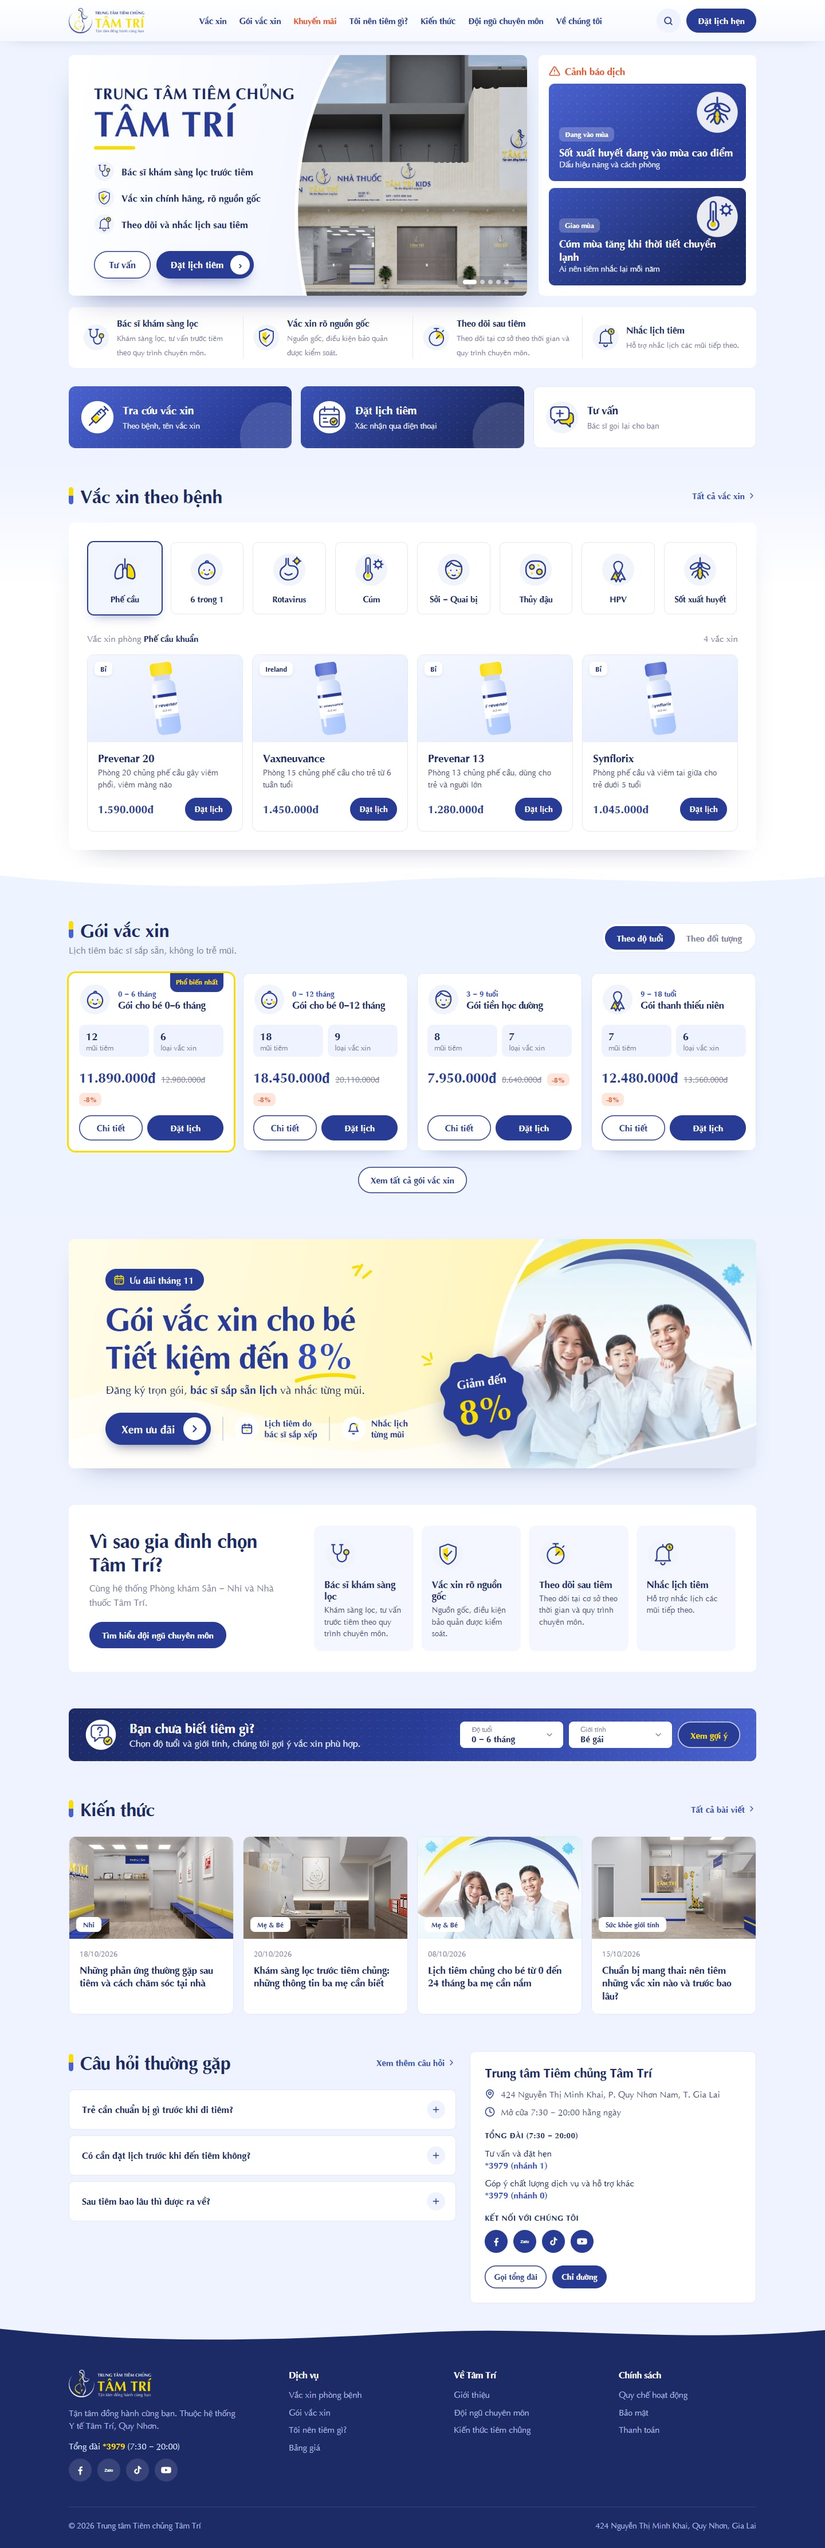
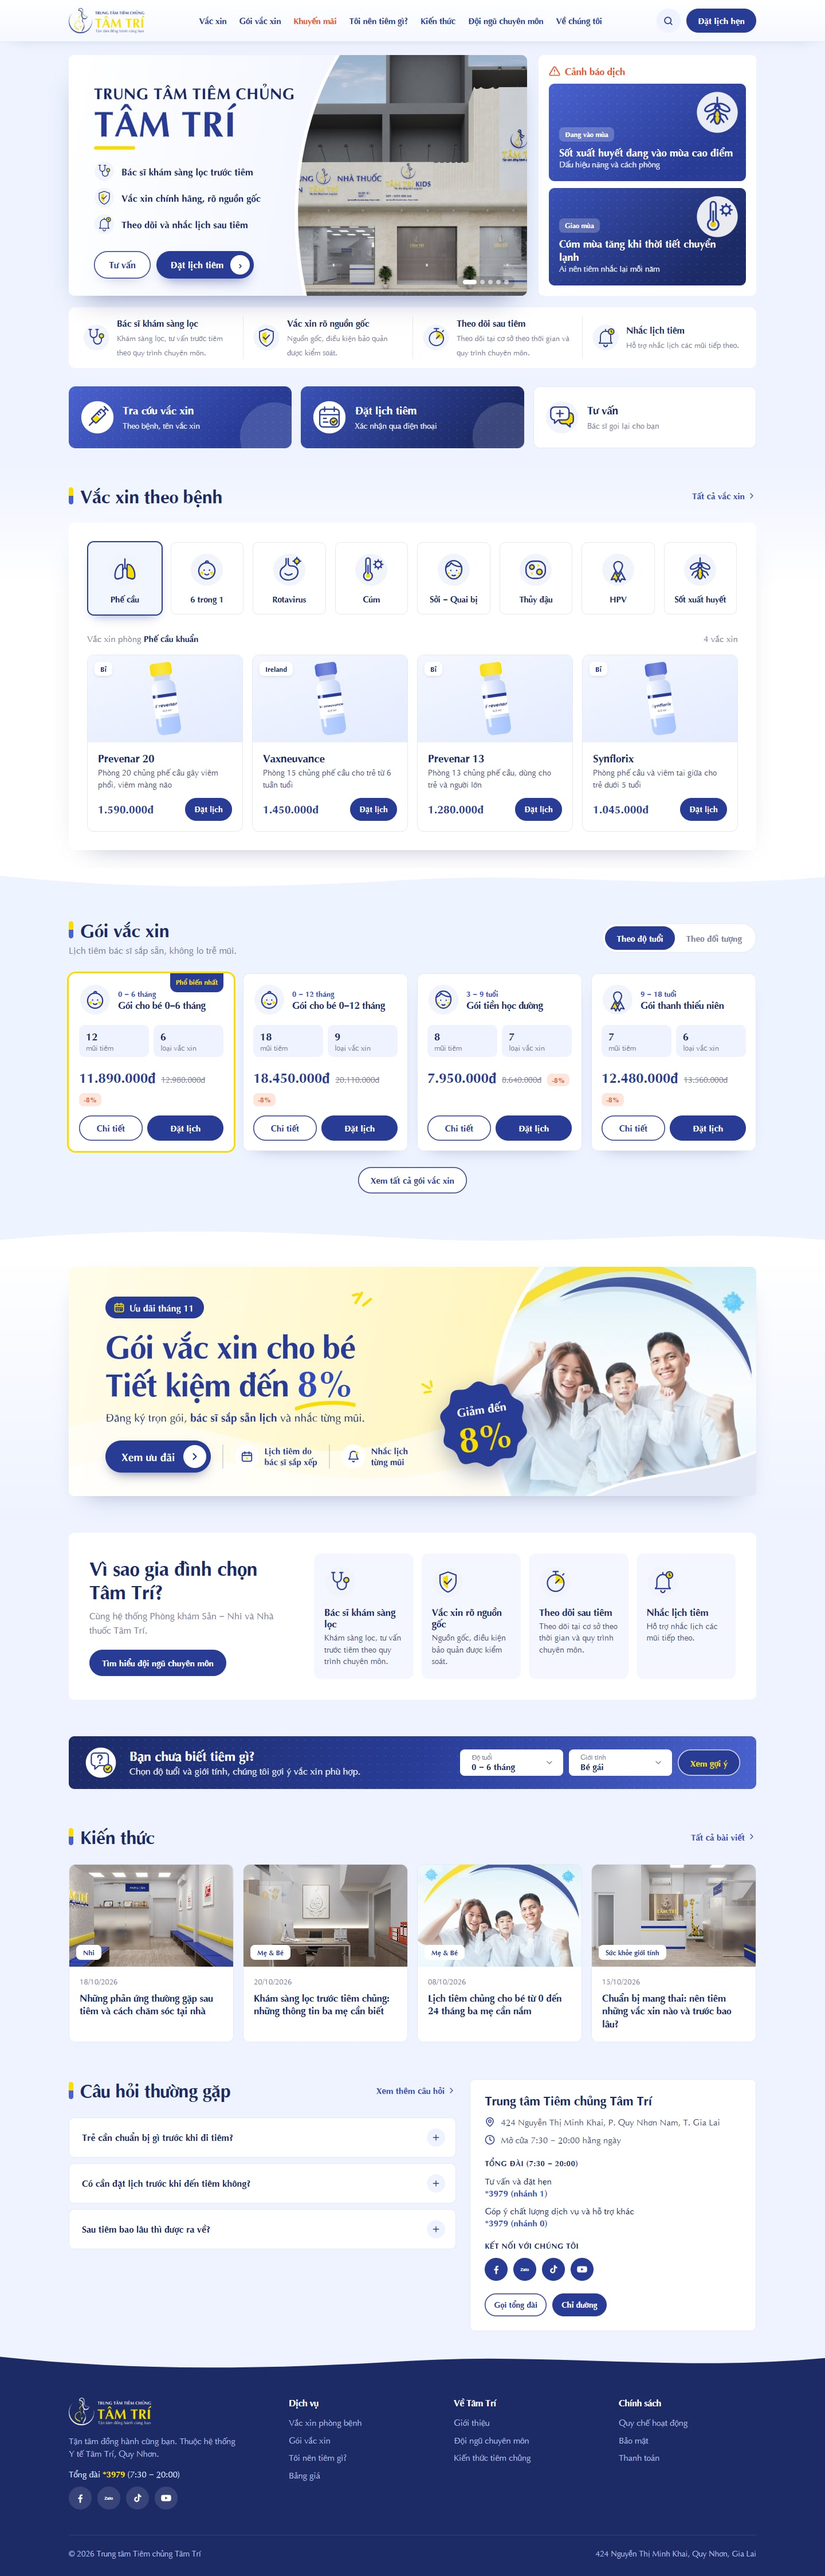
fix: layout C đặt lại đường cong đáy khối Gói vắc xin

diff --git a/public/prototypes/layout-c.html b/public/prototypes/layout-c.html
@@ -141,7 +141,9 @@
   .center { margin-top: 28px; display: flex; justify-content: center; }
 
   /* Packages */
-  .pkg { background: #edf3ff; position: relative; overflow: hidden; padding: 88px 0 48px; }
+  .pkg { background: #edf3ff; position: relative; overflow: hidden; padding: 88px 0 96px; }
+  /* Section ngay dưới khối Gói vắc xin: nền trắng chuyển xanh nhạt, để đường cong trắng ở đáy khối Gói nổi rõ. */
+  .offer-section { background: linear-gradient(180deg, #ffffff 0%, #eef3ff 100%); }
   .wave-top, .wave-bottom { position: absolute; z-index: 1; left: 0; width: 100%; height: 48px; pointer-events: none; }
   .wave-top { top: -2px; }
   .wave-bottom { bottom: -2px; }
@@ -299,7 +301,7 @@
     .vcard h3 { font-size: 16px; }
     .vcard .bottom { gap: 6px; }
     .vcard .price { font-size: 16px; }
-    .pkg { padding: 72px 0 40px; }
+    .pkg { padding: 72px 0 80px; }
     .pcard .top { padding: 14px 12px 12px; gap: 8px; }
     .pcard .top svg { width: 42px; height: 42px; }
     .pcard h3 { white-space: normal; font-size: 15px; }
@@ -417,7 +419,7 @@
     .vcard .price { font-size: 16px; }
 
     /* Gói vắc xin: chừa đủ chỗ cho hai đường cong */
-    .pkg { padding: 48px 0 calc(var(--space) / 2); }
+    .pkg { padding: 48px 0 56px; }
     .wave-top, .wave-bottom { height: 28px; }
     .pkg .head { align-items: flex-start; flex-direction: column; }
     .seg { padding: 4px; }
@@ -562,6 +564,7 @@
 
 <section class="pkg">
   <svg class="wave-top" viewBox="0 0 1440 40" preserveAspectRatio="none"><path d="M0 -2H1440V14C1180 34 960 6 720 18S240 34 0 12Z" fill="#fff"/></svg>
+  <svg class="wave-bottom" viewBox="0 0 1440 40" preserveAspectRatio="none"><path d="M0 42H1440V26C1200 8 980 36 720 24S220 8 0 26Z" fill="#fff"/></svg>
 <div class="wrap">
   <div class="head"><div><h2><span class="mark"></span>Gói vắc xin</h2><p>Lịch tiêm bác sĩ sắp sẵn, không lo trễ mũi.</p></div><div class="seg"><b class="on">Theo độ tuổi</b><b>Theo đối tượng</b></div></div>
   <div class="cards"><template data-each="packages"><article class="pcard {{it.hot ? 'hot' : ''}}">{{it.hot ? '<span class="badge">Phổ biến nhất</span>' : ''}}<div class="top"><i data-icon="{{it.icon}}" data-disc="#F2F4FB"></i><div><small>{{it.who}}</small><h3>{{it.name}}</h3></div></div><div class="stats"><span><b>{{it.doses}}</b>mũi tiêm</span><span><b>{{it.count}}</b>loại vắc xin</span></div><div class="price"><b>{{vnd(it.price)}}</b><s>{{vnd(it.was)}}</s><em>-{{Math.round((it.was - it.price) / it.was * 100)}}%</em></div><div class="acts"><a class="btn btn-line">Chi tiết</a><a class="btn btn-sun">Đặt lịch</a></div></article></template></div>
